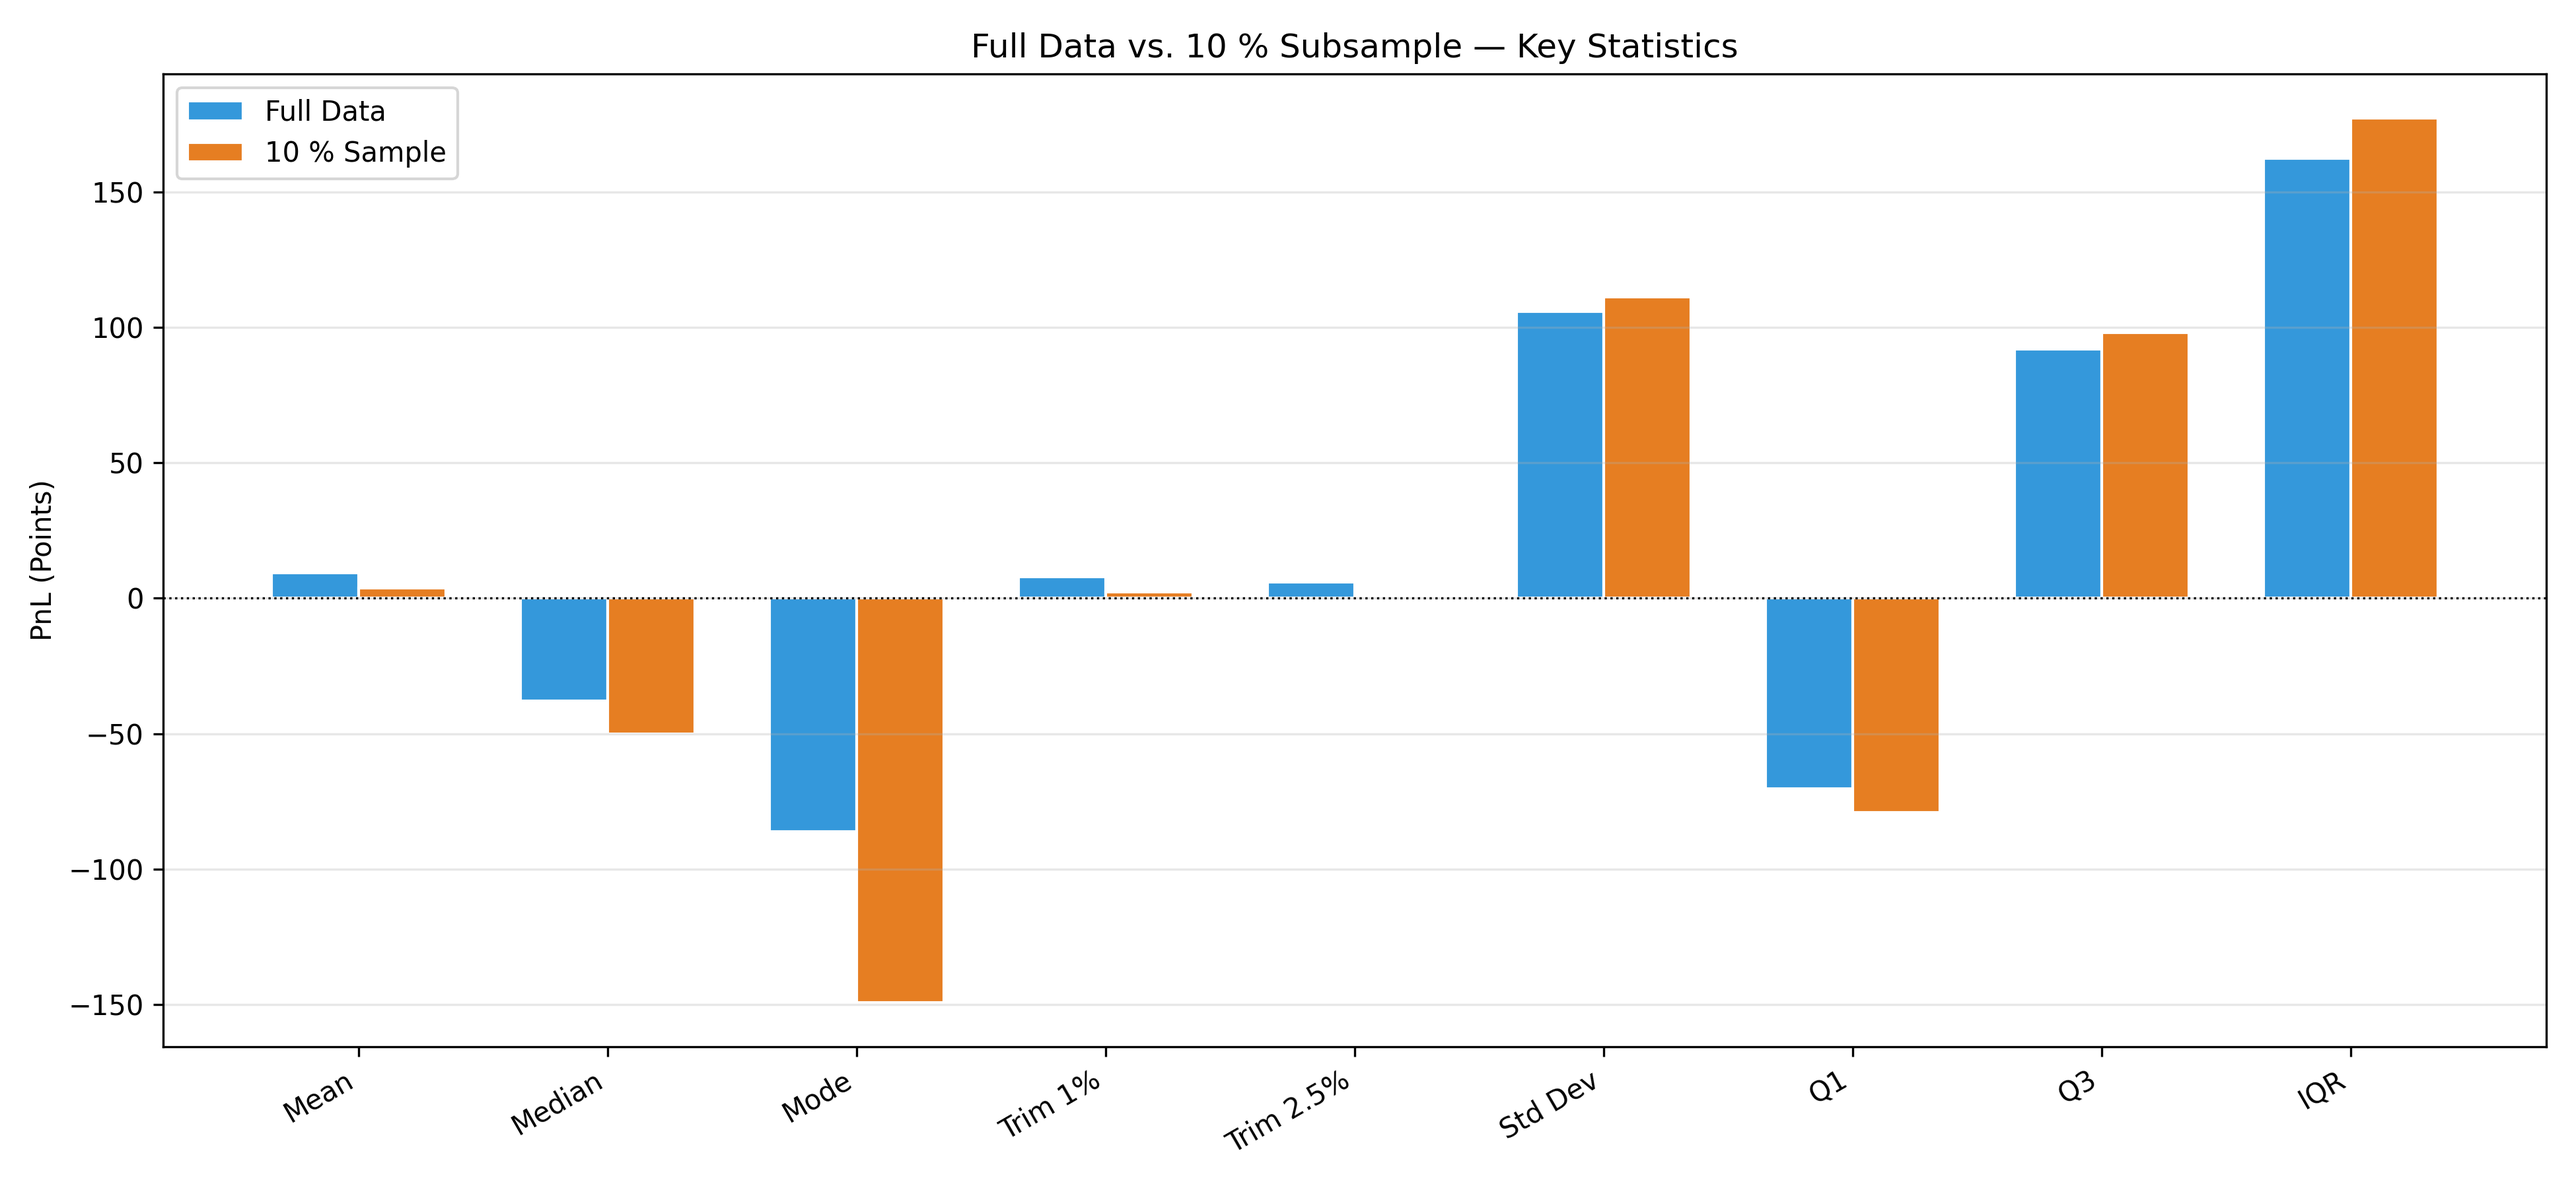
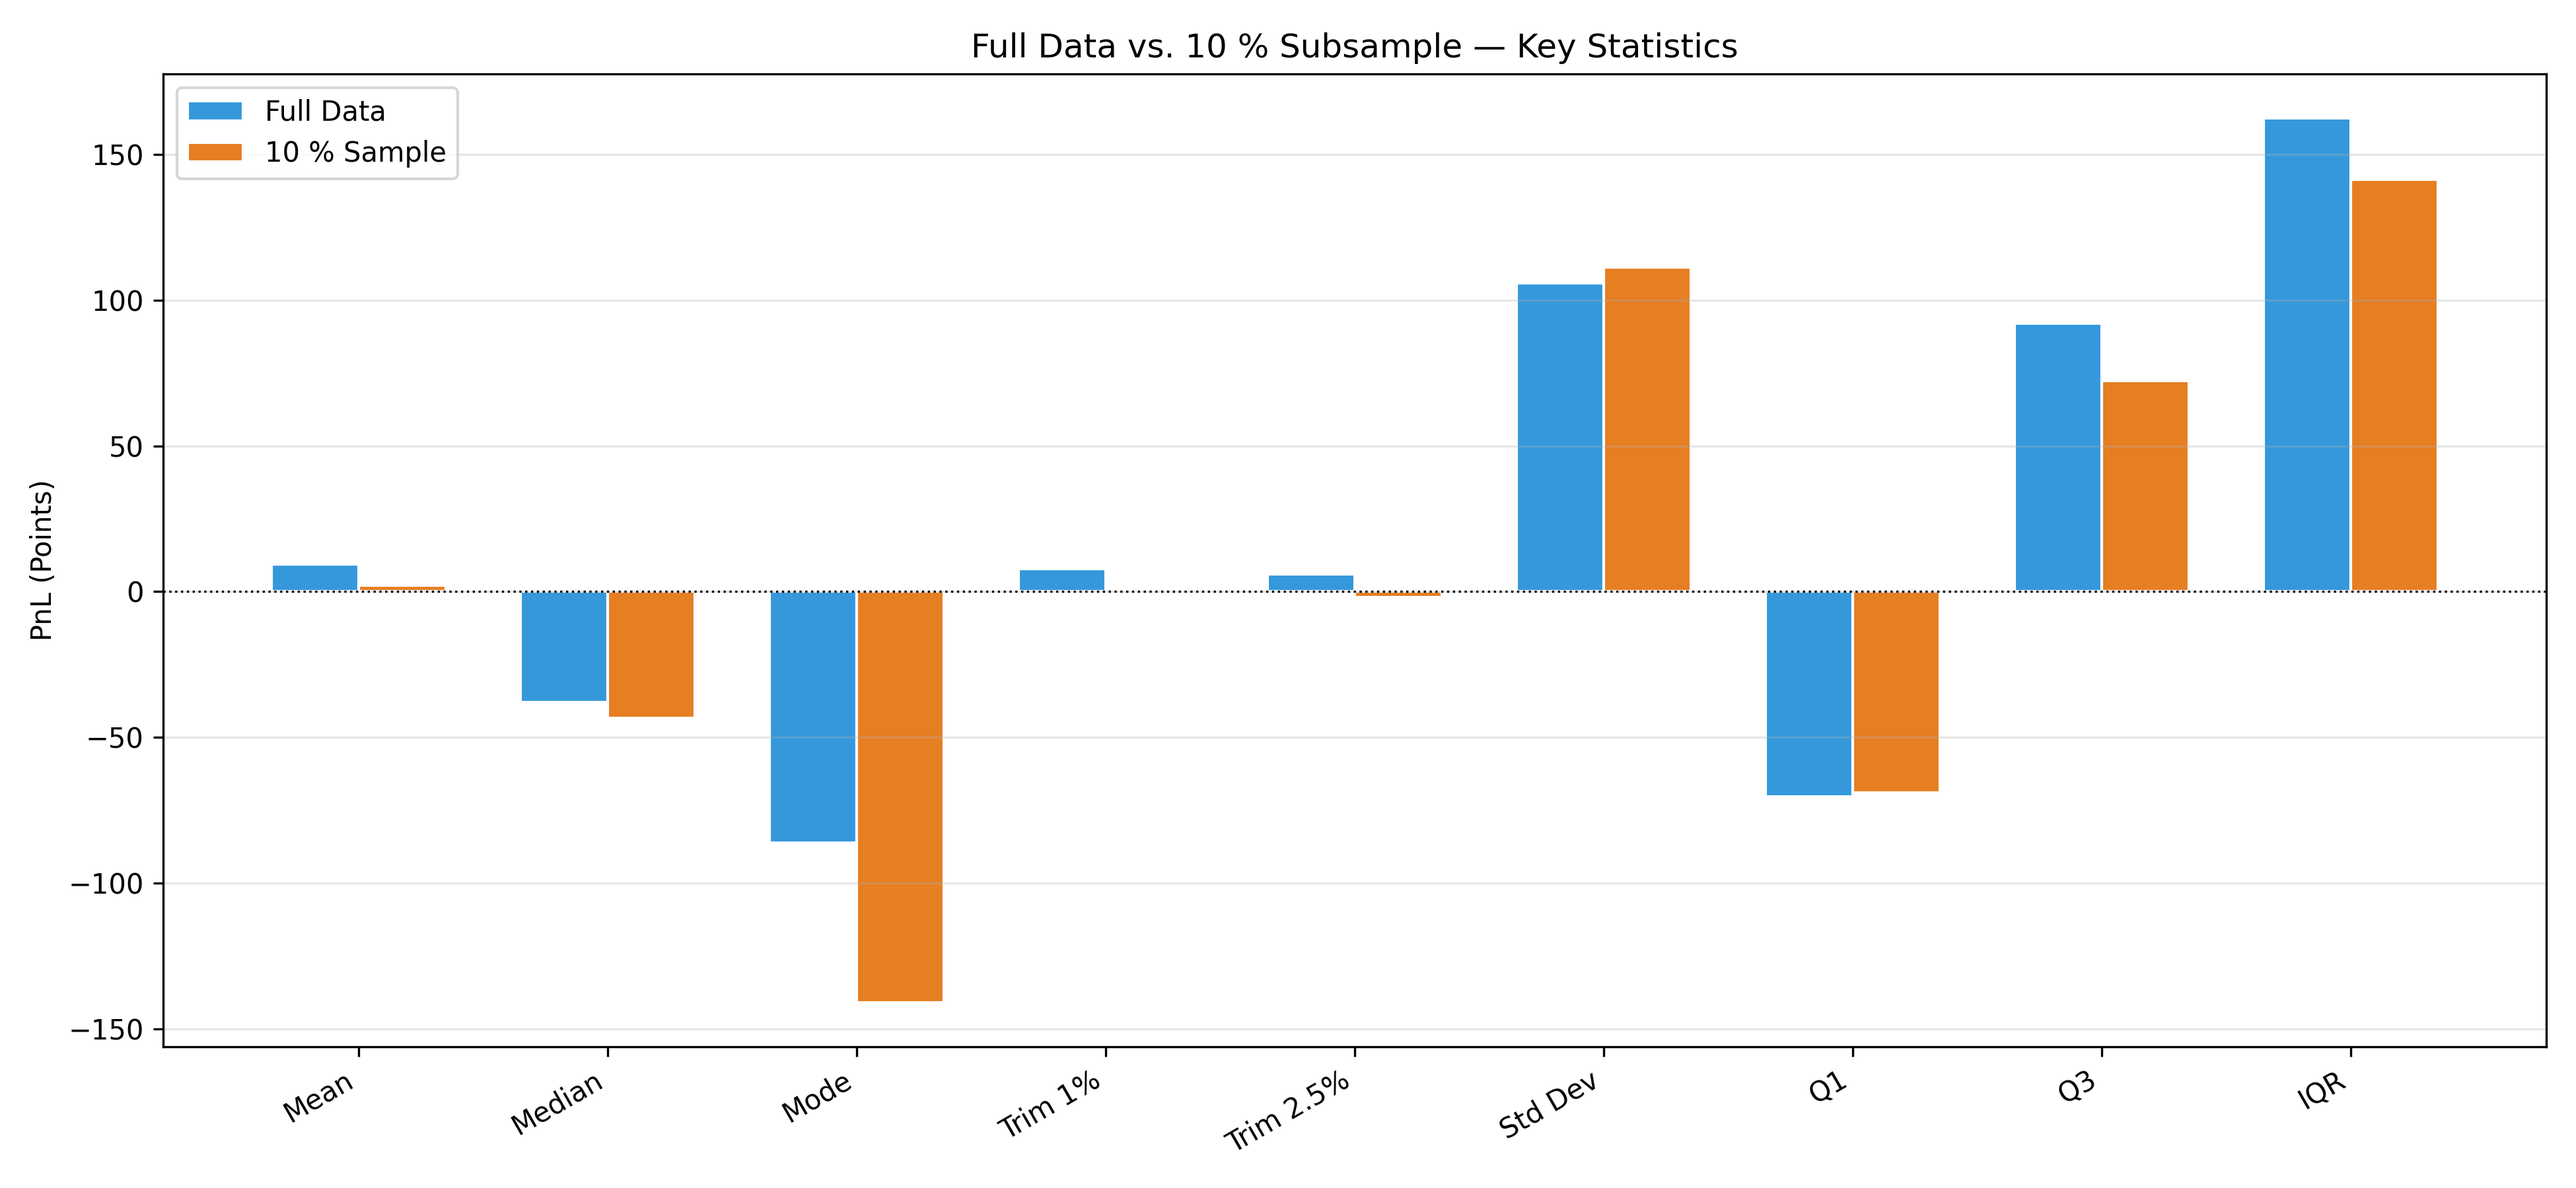
Pegged random sample to same seed to graph.py

diff --git a/Mirac/descriptive_stats.py b/Mirac/descriptive_stats.py
@@ -249,19 +249,14 @@ def main():
     trades, df = orb.get_all_trades()
 
     # Build a DataFrame and extract the PnL column, dropping any None values
-    pnl = df["pnl_points"].dropna().values
+    pnl = df["pnl_points"].dropna()
 
     # ── Full dataset analysis ────────────────────────────────────────────
-    full_stats = compute_all_stats(pnl, label="Full Data — All Trades")
+    full_stats = compute_all_stats(pnl.values, label="Full Data — All Trades")
     print_stats(full_stats)
 
     # ── 10 % random subsample ───────────────────────────────────────────
-    # We use a fixed seed so the results are reproducible across runs
-    rng = np.random.default_rng(seed=42)
-    sample_size = max(1, int(len(pnl) * 0.10))
-    sample_idx = rng.choice(len(pnl), size=sample_size, replace=False)
-    pnl_sample = pnl[sample_idx]
-
+    pnl_sample = pnl.sample(frac=0.1, random_state=42)
     sample_stats = compute_all_stats(pnl_sample, label="10 % Subsample")
     print_stats(sample_stats)
 
